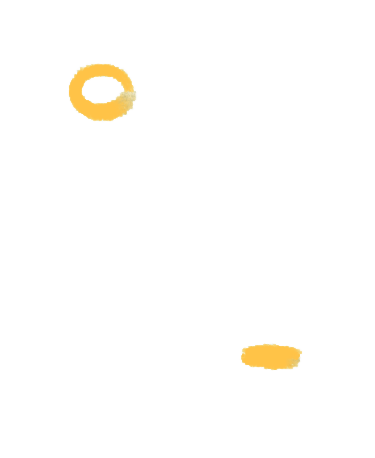
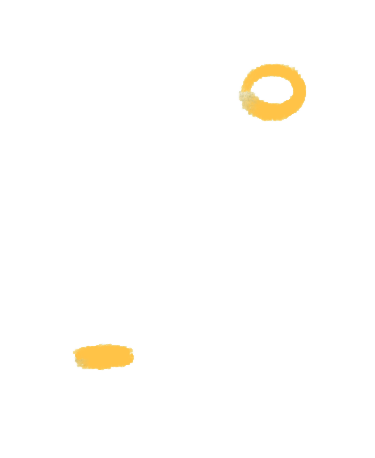
finished project

diff --git a/main.py b/main.py
@@ -10,6 +10,7 @@
 # mouth-->layer-4
 # ornaments-->layer-5
 # ------------------------CODE------------------------
+from generator import maker
 
 possible_combos = []
 
@@ -17,7 +18,18 @@ for ba in range(1, 7):
     for bo in range(1, 6):
         for ey in range(1, 4):
             for mo in range(1, 5):
-                for orn in range(1, 6):
+                for orn in range(1, 5):
                     possible_combos.append([ba, bo, ey, mo, orn])
-print(possible_combos)
-print(f"total combos are: {len(possible_combos)}")
+
+count = 1
+
+for combo in possible_combos:
+    ba_index = combo[0]
+    bo_index = combo[1]
+    ey_index = combo[2]
+    mo_index = combo[3]
+    orn_index = combo[4]
+    maker(ba_index, bo_index, ey_index, mo_index, orn_index, count)
+
+    print(f"progress= {count}/1800 ({count/1800 * 100}%)")
+    count += 1

diff --git a/generator.py b/generator.py
@@ -28,14 +28,9 @@ def maker(background_index, body_index, eye_index, mouth_index, ornament_index, 
         final, mouth_trans).save("images/final_b.png")
     os.remove("images/final_a.png")
 
-    '''
     final = Image.open("images/final_b.png")
     ornament_trans = Image.new("RGBA", final.size)
-    ornament_trans.paste(ornament, (455, 20), mask=ornament,)
+    ornament_trans.paste(ornament, (375, 20), mask=ornament,)
     Image.alpha_composite(
         final, ornament_trans).save(f"images/final{final_file_number}.png")
     os.remove("images/final_b.png")
-    '''
-
-
-maker(5, 4, 1, 3, 2, 69)
